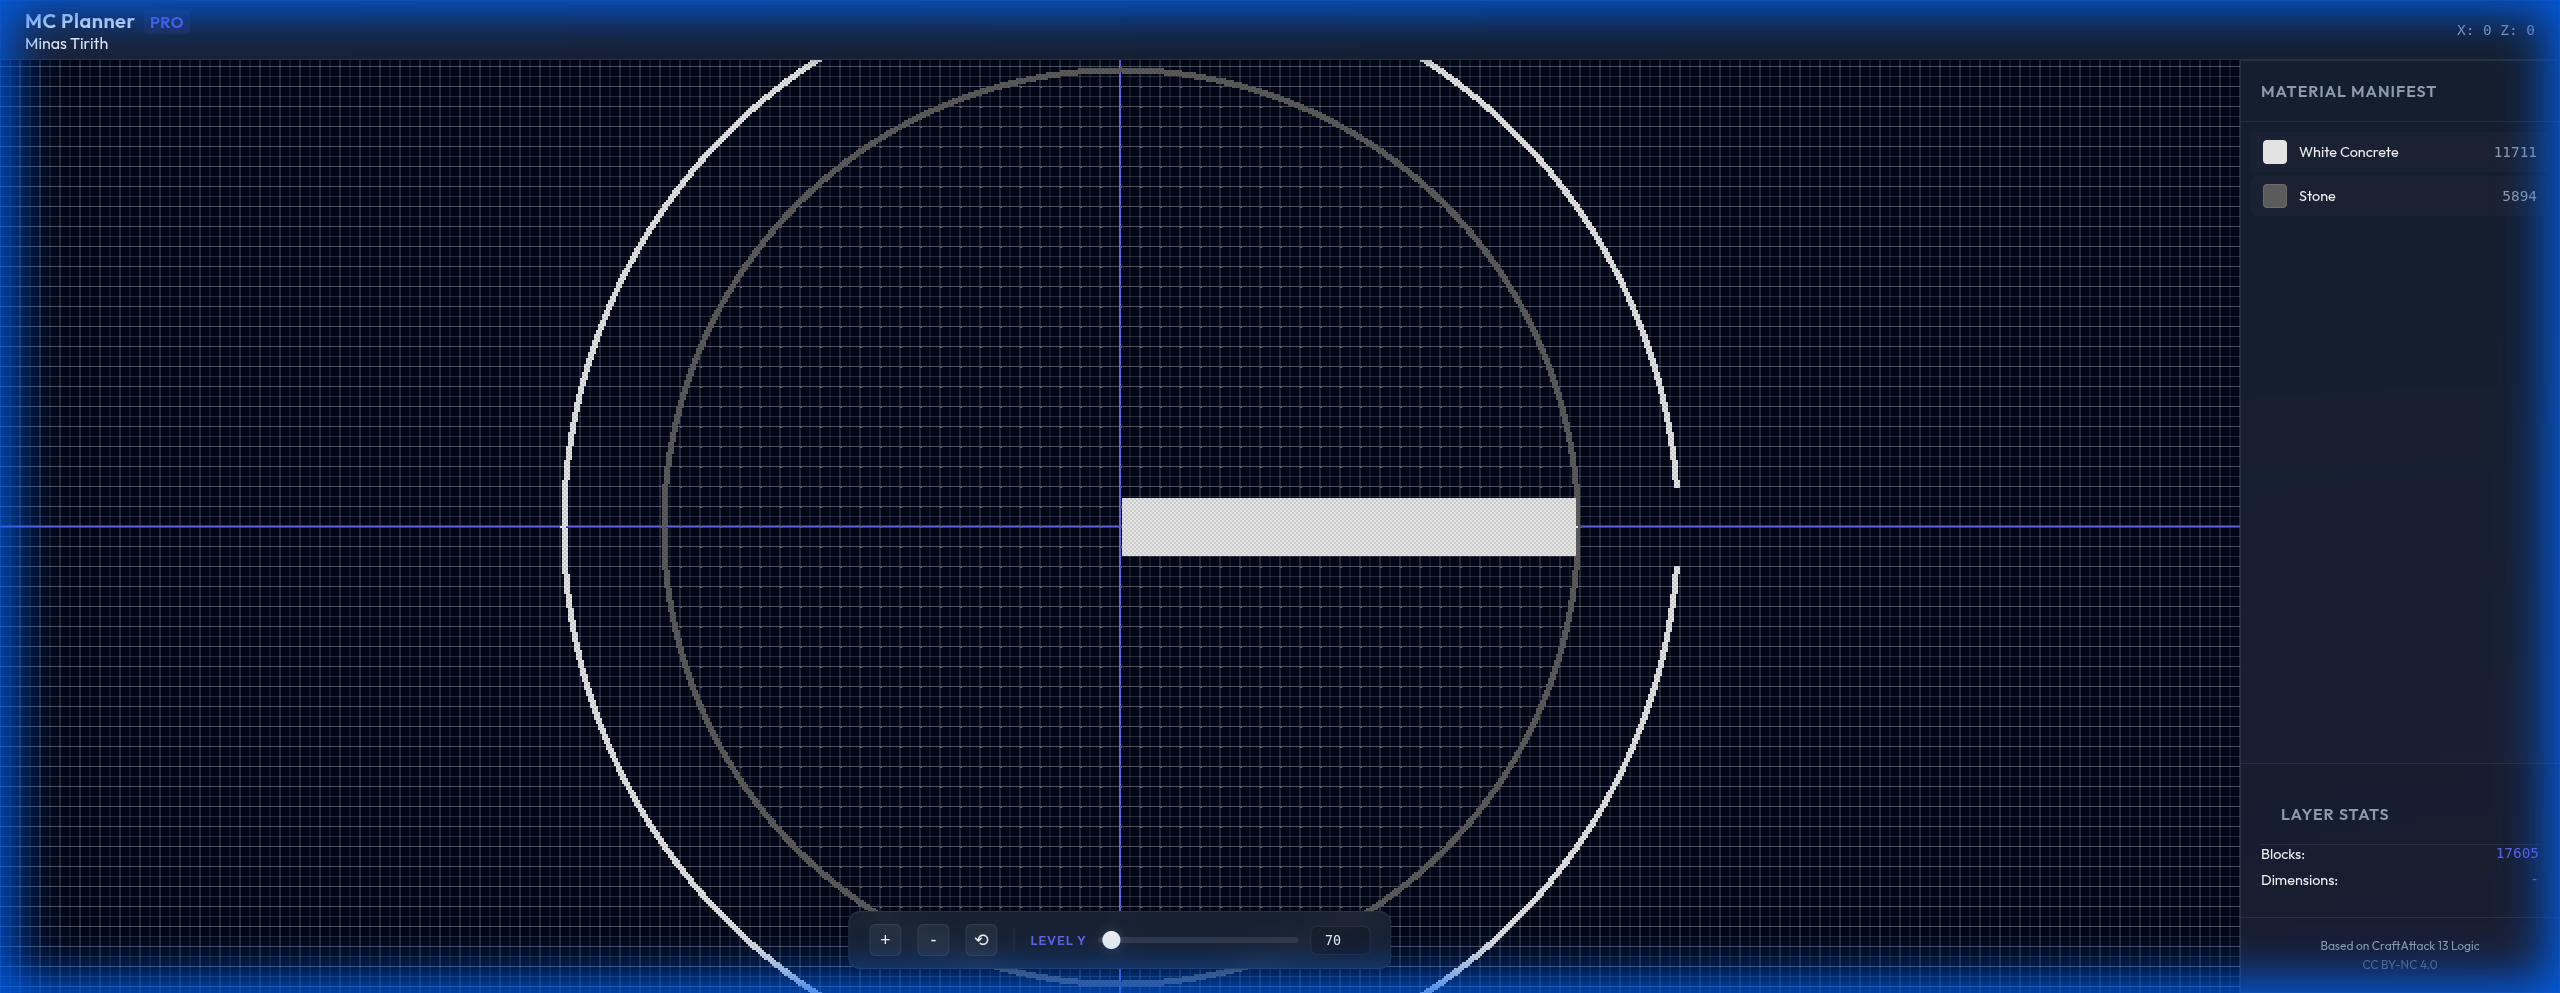
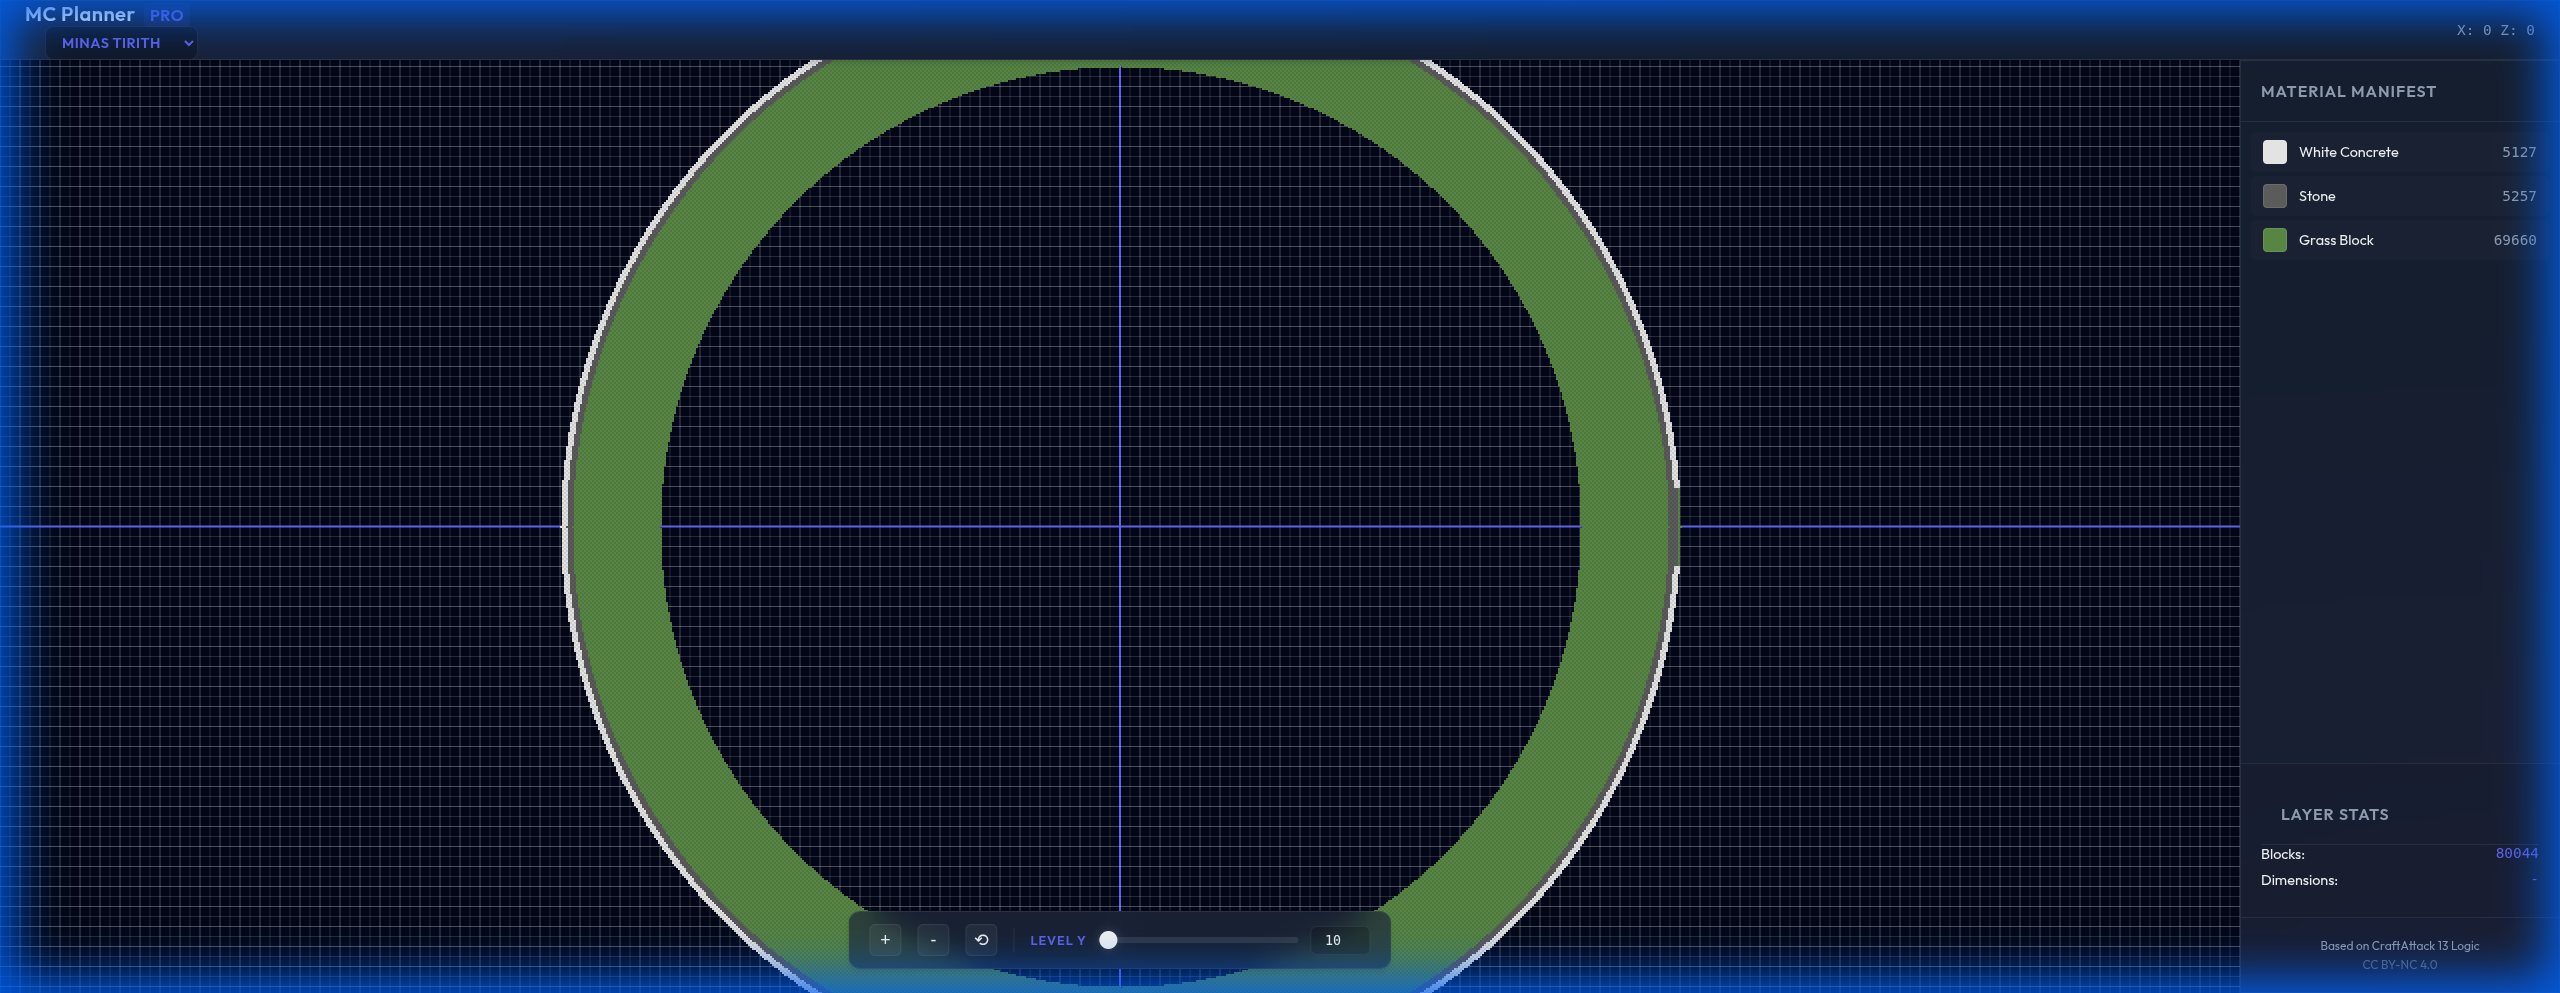
Fix label positioning and visibility, add decorative details to Eiffel Tower and Minas Tirith

Changed region(s): [[0.2188, 0.0624, 0.6562, 1.0], [0.0, 0.0, 0.0625, 0.0624], [0.875, 0.2185, 0.9375, 0.2497]]

diff --git a/js/generator.js b/js/generator.js
@@ -18,7 +18,9 @@ export const COLORS = {
     'wall_outline': '#b0bec5',
     'iron_block': '#e0e0e0',
     'cobblestone': '#505050',
-    'obsidian': '#1a1a1a'
+    'obsidian': '#1a1a1a',
+    'sea_lantern': '#b2dbbf',
+    'redstone_lamp': '#f0e68c'
 };
 
 export function generateMinasTirith() {
@@ -67,7 +69,7 @@ export function generateMinasTirith() {
             const dist = Math.sqrt(x * x + z * z);
             if (dist <= baseRadius) {
                 // Slight noisy terrain variance could go here, for now flat
-                setBlock(x, 63, z, 'grass_block');
+                setBlock(x, 9, z, 'grass_block');
             }
         }
     }
@@ -106,6 +108,11 @@ export function generateMinasTirith() {
                         // Add a road ring?
                         if (dist > (outerRadius - 6) && dist < (outerRadius - 1)) {
                             setBlock(x, currentY, z, 'stone'); // Road
+                        }
+
+                        // Detail: Fountain in the Prow area (Tier 0)
+                        if (t === 0 && x > 200 && x < 220 && Math.abs(z) < 10) {
+                            setBlock(x, currentY, z, 'water');
                         }
                     } else {
                         // Inside innerRadius: This is the foundation for the NEXT tier up
@@ -237,6 +244,10 @@ export function generateEiffelTower() {
                     setBlock(x, absY, z, 'iron_block');
                 }
             }
+            // Beacon at the very top
+            if (y === TOWER_HEIGHT + 20) {
+                setBlock(0, absY + 1, 0, 'sea_lantern');
+            }
             continue;
         }
 
@@ -260,7 +271,12 @@ export function generateEiffelTower() {
                     if (d <= platW) {
                         // Floor
                         if (d === platW && (x + z) % 2 === 0) {
-                            setBlock(x, absY, z, 'stone'); // Railing substitute
+                            // Corners
+                            if (Math.abs(x) === platW && Math.abs(z) === platW) {
+                                setBlock(x, absY, z, 'sea_lantern');
+                            } else {
+                                setBlock(x, absY, z, 'stone'); // Railing
+                            }
                         } else {
                             setBlock(x, absY, z, type);
                         }

diff --git a/js/main.js b/js/main.js
@@ -3,7 +3,7 @@ import { generateMinasTirith, generateEiffelTower, COLORS } from './generator.js
 // --- Global State ---
 const state = {
     world: null, // Map<y, Map<x, Map<z, block>>>
-    currentLayer: 30, // Changed from 70
+    currentLayer: 10, // Changed from 30
     minY: 0,
     maxY: 300,
     zoom: 2, // Pixels per block
@@ -244,14 +244,16 @@ function drawLabels(layer) {
     ctx.textAlign = 'center';
     ctx.textBaseline = 'middle';
     ctx.fillStyle = 'white';
-    ctx.shadowColor = 'black';
-    ctx.shadowBlur = 2;
+    ctx.strokeStyle = 'black';
+    ctx.lineWidth = 3;
+    ctx.lineJoin = 'round'; // Smooth corners
+    // No shadow needed if we stroke
 
-    // Viewport bounds for iteration
-    const startX = Math.floor((-state.offsetX / state.zoom) - 2);
-    const endX = Math.ceil(((canvas.width - state.offsetX) / state.zoom) + 2);
-    const startZ = Math.floor((-state.offsetZ / state.zoom) - 2);
-    const endZ = Math.ceil(((canvas.height - state.offsetZ) / state.zoom) + 2);
+    // Viewport bounds for iteration (Increased padding)
+    const startX = Math.floor((-state.offsetX / state.zoom) - 5);
+    const endX = Math.ceil(((canvas.width - state.offsetX) / state.zoom) + 5);
+    const startZ = Math.floor((-state.offsetZ / state.zoom) - 5);
+    const endZ = Math.ceil(((canvas.height - state.offsetZ) / state.zoom) + 5);
 
     // Horizontal Runs (scan z, then x)
     for (let z = startZ; z <= endZ; z++) {
@@ -342,6 +344,7 @@ function drawLabel(startCoord, otherCoord, length, orient) {
     const screenX = state.offsetX + (cx * state.zoom) + (state.zoom / 2);
     const screenY = state.offsetZ + (cz * state.zoom) + (state.zoom / 2);
 
+    ctx.strokeText(`${length}`, screenX, screenY);
     ctx.fillText(`${length}`, screenX, screenY);
 }
 
